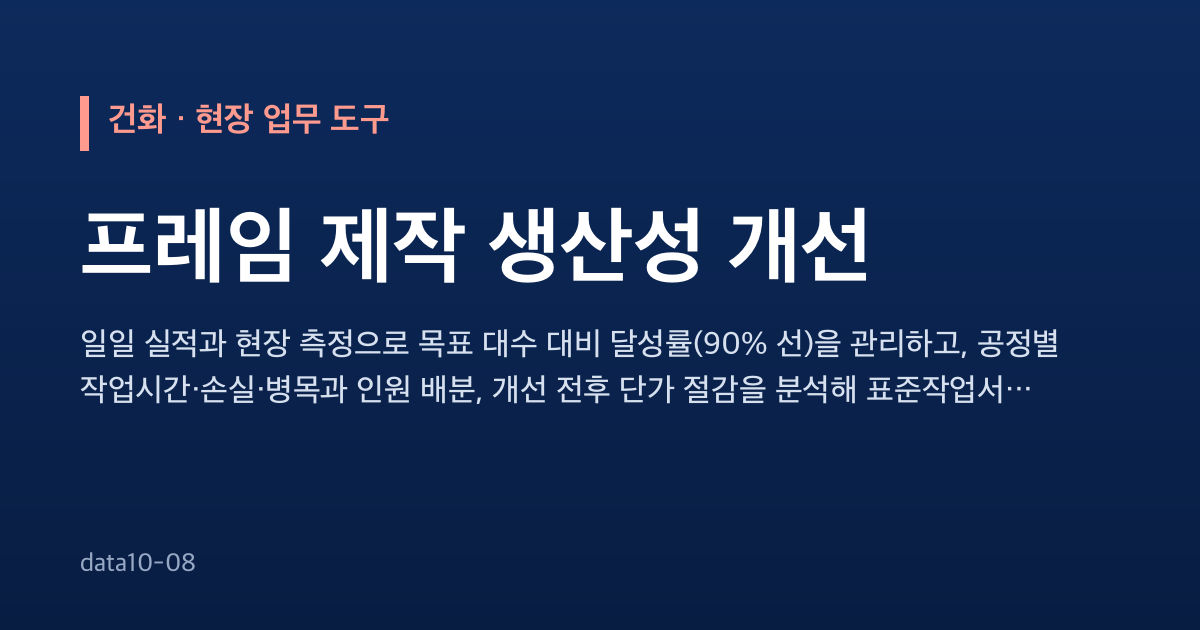
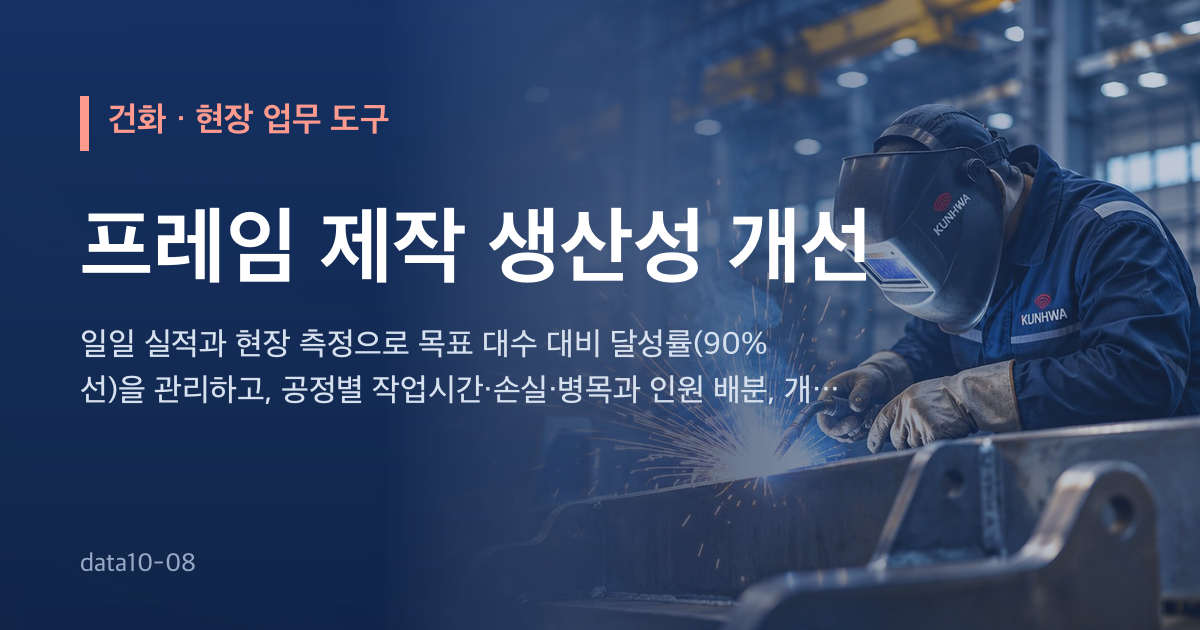
개발 자료 전체 공개 — 개발일지 · 기획서 원문 · 시험 · SQL · 스크립트 · README (수강생 내려받기용)

diff --git a/index.html b/index.html
@@ -12,9 +12,16 @@
   <meta property="og:description" content="일일 실적과 현장 측정으로 목표 대수 대비 달성률(90% 선)을 관리하고, 공정별 작업시간·손실·병목과 인원 배분, 개선 전후 단가 절감을 분석해 표준작업서 초안까지 만드는 브라우저 도구입니다.">
   <meta property="og:url" content="https://data10-08.jobability.co.kr/">
   <meta property="og:image" content="https://data10-08.jobability.co.kr/og-image.png">
+  <meta property="og:image:secure_url" content="https://data10-08.jobability.co.kr/og-image.png">
+  <meta property="og:image:type" content="image/png">
   <meta property="og:image:width" content="1200">
   <meta property="og:image:height" content="630">
+  <meta property="og:image:alt" content="건화 · 프레임 제작 생산성 개선">
+  <meta property="og:locale" content="ko_KR">
   <meta name="twitter:card" content="summary_large_image">
+  <meta name="twitter:title" content="건화 · 프레임 제작 생산성 개선">
+  <meta name="twitter:description" content="일일 실적과 현장 측정으로 목표 대수 대비 달성률(90% 선)을 관리하고, 공정별 작업시간·손실·병목과 인원 배분, 개선 전후 단가 절감을 분석해 표준작업서 초안까지 만드는 브라우저 도구입니다.">
+  <meta name="twitter:image" content="https://data10-08.jobability.co.kr/og-image.png">
   <link rel="icon" href="favicon.svg" type="image/svg+xml">
   <!-- /seo-kit -->
   <meta name="description" content="일일 실적으로 목표 대수 대비 달성률을 관리하고, 현장 측정으로 공정별 작업시간·손실을 재어 병목공정·인원 배분·개선 전후 단가 절감을 분석하며 표준작업서 초안을 만드는 브라우저 도구">
@@ -29,11 +36,11 @@
        v3: location.reload() 대신 질의 붙은 주소로 — reload 가 Fastly 에 남은 옛 판을 다시 받아 멈추던 것(10-21 build-data 강의안).
        탭 전환·포커스로는 옮기지 않는다(입력 유실). ETag 는 Cloudflare 가 지워서 쓸 수 없다. 원본: dreamit-1000/scripts/fresh-guard/guard.html -->
   <script>(function(){try{var L=location,P='_fg',h=window.history,q=L.search;if(/[?&]_fg=/.test(q)&&h&&h.replaceState){q=q.replace(/([?&])_fg=[^&]*&?/,'$1').replace(/[?&]$/,'');h.replaceState(h.state,'',L.pathname+q+L.hash);}var d=Date.parse(document.lastModified),u=L.pathname+L.search,k='__fresh_guard',t=0;if(!d||!window.fetch||!window.sessionStorage)return;var g=function(s,v){return s+(s.indexOf('?')<0?'?':'&')+P+'='+v;};var c=function(){var n=Date.now();if(n-t<15000)return;t=n;fetch(g(u,n),{method:'HEAD',cache:'no-store'}).then(function(r){var lm=r.headers.get('last-modified'),f=lm&&Date.parse(lm);if(!f||f<=d+1000)return;if(sessionStorage.getItem(k)===lm)return;sessionStorage.setItem(k,lm);L.replace(g(L.pathname+L.search,f)+L.hash);})['catch'](function(){});};c();var p=h&&h.pushState;if(p)h.pushState=function(){var x=p.apply(this,arguments);c();return x;};addEventListener('hashchange',c);addEventListener('popstate',c);}catch(e){}})();</script>
-  <link rel="stylesheet" href="css/style.css?v=2026-11-11.7">
+  <link rel="stylesheet" href="css/style.css?v=2026-11-11.8">
   <!-- auth-kit: 로그인 전에는 도구 화면을 감춘다(js/auth.js 가 판정 뒤 푼다) -->
   <script>document.documentElement.classList.add('auth-lock')</script>
-  <link rel="stylesheet" href="css/auth.css?v=2026-11-11.7">
-  <link rel="stylesheet" href="css/board.css?v=2026-11-11.7">
+  <link rel="stylesheet" href="css/auth.css?v=2026-11-11.8">
+  <link rel="stylesheet" href="css/board.css?v=2026-11-11.8">
   <!-- /auth-kit -->
 </head>
 <body>
@@ -83,19 +90,19 @@
   <div id="toast" class="toast" role="status" aria-live="polite" hidden></div>
 
   <!-- 로컬 파일(file://)로 열어도 돌도록 module 이 아닌 일반 스크립트로 불러옵니다 -->
-  <script src="vendor/xlsx.full.min.js?v=2026-11-11.7"></script>
-  <script src="js/logic.js?v=2026-11-11.7"></script>
-  <script src="js/sample-data.js?v=2026-11-11.7"></script>
-  <script src="js/store.js?v=2026-11-11.7"></script>
-  <script src="js/charts.js?v=2026-11-11.7"></script>
-  <script src="js/ai-endpoint.js?v=2026-11-11.7"></script>
-  <script src="js/ai-panel.js?v=2026-11-11.7"></script>
-  <script src="js/app.js?v=2026-11-11.7"></script>
+  <script src="vendor/xlsx.full.min.js?v=2026-11-11.8"></script>
+  <script src="js/logic.js?v=2026-11-11.8"></script>
+  <script src="js/sample-data.js?v=2026-11-11.8"></script>
+  <script src="js/store.js?v=2026-11-11.8"></script>
+  <script src="js/charts.js?v=2026-11-11.8"></script>
+  <script src="js/ai-endpoint.js?v=2026-11-11.8"></script>
+  <script src="js/ai-panel.js?v=2026-11-11.8"></script>
+  <script src="js/app.js?v=2026-11-11.8"></script>
   <!-- auth-kit: 로그인 · 사용 신청 · 승인(정본 data10-00/kit/auth) -->
-  <script src="vendor/supabase.js?v=2026-11-11.7"></script>
-  <script src="js/auth-config.js?v=2026-11-11.7"></script>
-  <script src="js/board.js?v=2026-11-11.7"></script>
-  <script src="js/auth.js?v=2026-11-11.7"></script>
+  <script src="vendor/supabase.js?v=2026-11-11.8"></script>
+  <script src="js/auth-config.js?v=2026-11-11.8"></script>
+  <script src="js/board.js?v=2026-11-11.8"></script>
+  <script src="js/auth.js?v=2026-11-11.8"></script>
   <!-- /auth-kit -->
 </body>
 </html>

diff --git a/js/auth.js b/js/auth.js
@@ -233,6 +233,12 @@
       box.classList.toggle('hp-sl-light', !!(sl[i] && sl[i].tone === 'light'));   // 밝은 사진이면 글자를 어둡게
     }
     go(0);
+    // slides[].anim(움직이는 그림 gif) — 먼저 가벼운 사진을 보이고, 화면이 뜬 뒤 받아서 바꿔 끼운다(데이터 절약 · 모션 최소화면 건너뜀)
+    var conn = navigator.connection || {};
+    if (!reduce && !conn.saveData) sl.forEach(function (x, k) {
+      if (!x.anim || !track.children[k]) return;
+      setTimeout(function () { var im = new Image(); im.onload = function () { if (document.body.contains(track)) track.children[k].style.backgroundImage = 'url("' + absUrl(x.anim) + '")'; }; im.src = absUrl(x.anim); }, 1500);
+    });
     box.querySelectorAll('[data-sl]').forEach(function (b) {
       b.onclick = function () {
         var v = b.getAttribute('data-sl');

diff --git a/js/app.js b/js/app.js
@@ -5,7 +5,7 @@
   var L = window.FrameLogic, S = window.FrameStore, C = window.FrameCharts, AIP = window.AIPanel;
   /* 판 맞추기 — 브라우저가 옛 logic.js 와 새 app.js 를 섞어 쓰면(Pages 캐시) 버튼과 결과가 어긋날 수 있어, 섞였으면 계산하지 않고 새로고침을 안내합니다.
      판은 scripts/bump-version.mjs 로 index.html(?v=) · logic.js 와 함께 올립니다. */
-  var APP_VERSION = '2026-11-11.7';
+  var APP_VERSION = '2026-11-11.8';
   if (!L || L.VERSION !== APP_VERSION) {
     var m0 = document.getElementById('main') || document.body;
     m0.innerHTML = '<section class="card" id="versionMismatch"><h1>새 판이 나왔습니다 — 새로고침(Ctrl+F5)해 주세요</h1><p class="alert warn">이 브라우저가 옛 파일과 새 파일을 섞어 불러왔습니다(js/logic.js ' +

diff --git a/js/logic.js b/js/logic.js
@@ -22,7 +22,7 @@
   'use strict';
   /* 판(版) — index.html 의 ?v= · app.js 의 APP_VERSION 과 같아야 합니다(scripts/bump-version.mjs 로 함께 올림).
      브라우저가 옛 logic.js 와 새 app.js 를 섞어 쓰면 app.js 가 이 값을 보고 계산을 멈춥니다. */
-  var VERSION = '2026-11-11.7';
+  var VERSION = '2026-11-11.8';
 
   var SCHEMA_VERSION = 1;
   var GOAL = 0.9; // 달성률 목표 90% (제출 원문)

diff --git a/docs/평가보고서/data10-08_평가보고서_2026-11-11.md b/docs/평가보고서/data10-08_평가보고서_2026-11-11.md
@@ -2,7 +2,7 @@
 
 - 과제: 프레임 제작 생산성 개선
 - 요청자: 박상선
-- 점검일: 2026-11-11 (라이브 점검 판 2026-11-11.6, 이 보고서와 함께 올리는 판 2026-11-11.7)
+- 점검일: 2026-11-11 (라이브 점검 판 2026-11-11.6, 이 보고서와 함께 올리는 판 2026-11-11.8)
 - 사이트: https://data10-08.jobability.co.kr/
 - 리포지토리: https://github.com/jungaistar/data10-08
 
@@ -34,7 +34,7 @@
 | 첫 화면 구성 | 충족 | 모양 사진 슬라이드 3장 · 기능 6 · 사용 순서 6 · 실제 화면 있음 |
 | 회사 로고(그림) | 충족 | 머리글 로고 그림 |
 | 기획서 페이지 · 실제 화면 그림 | 충족 | plan.html 200 · screen.png 200 |
-| 공유 미리보기 메타 · 아이콘 | 조치함 | 점검 때 og 메타 · 아이콘이 없어 판 2026-11-11.7 에서 넣음 |
+| 공유 미리보기 메타 · 아이콘 | 조치함 | 점검 때 og 메타 · 아이콘이 없어 넣음 — og:title · description · url · image(1200×630, 첫 화면 사진 바탕) · canonical |
 
 ## 3. 기능과 시험
 
@@ -63,7 +63,7 @@
 | Supabase 설정 파일 | 충족 | auth.sql · board.sql · site.sql · verify.sql |
 | Supabase 연결 안내 | 충족 | supabase/README.md (11단계 · 기대하는 값 · 자주 나는 문제) |
 | 내 깃허브로 옮기기 안내 | 충족 | docs/내_깃허브로_옮기기.md |
-| 기획서(워드) · 개발일지 · 변경 이력 | 충족 | 변경 이력 9건 · 커밋 16개 |
+| 기획서(워드) · 개발일지 · 변경 이력 | 충족 | 변경 이력 10건 · 커밋 17개 |
 | 공개 리포지토리(ZIP 내려받기) | 충족 | github.com/jungaistar/data10-08 |
 | 게시판 · 새 글 알림 · 첫 화면 고르기 | 충족 | 과정용 프로젝트에 SQL 적용 완료(표 · 정책 수 확인) |
 
@@ -81,6 +81,7 @@
 
 ## 6. 변경 이력
 
+- 2026-11-11 점검 · 평가보고서 (판 2026-11-11.7)
 - 2026-11-11 요청 반영 (판 2026-11-11.6)
 - 2026-11-11 슬라이드 사진 (판 2026-11-11.5)
 - 2026-11-11 첫 화면 모양 고르기 (판 2026-11-11.3)

diff --git a/CHANGELOG.md b/CHANGELOG.md
@@ -2,6 +2,11 @@
 
 버전마다 기획서 워드 판을 `docs/기획서/` 에 남긴다(옛 판을 지우지 않는다).
 
+## 2026-11-11 최종 (판 2026-11-11.8)
+
+- 공유 미리보기 그림(og-image.png)을 첫 화면 사진 바탕으로, og · twitter 메타 보강
+- 평가보고서 갱신 `docs/평가보고서/`
+
 ## 2026-11-11 점검 · 평가보고서 (판 2026-11-11.7)
 
 - 16개 사이트 점검 결과와 평가보고서 `docs/평가보고서/`(md · docx)
